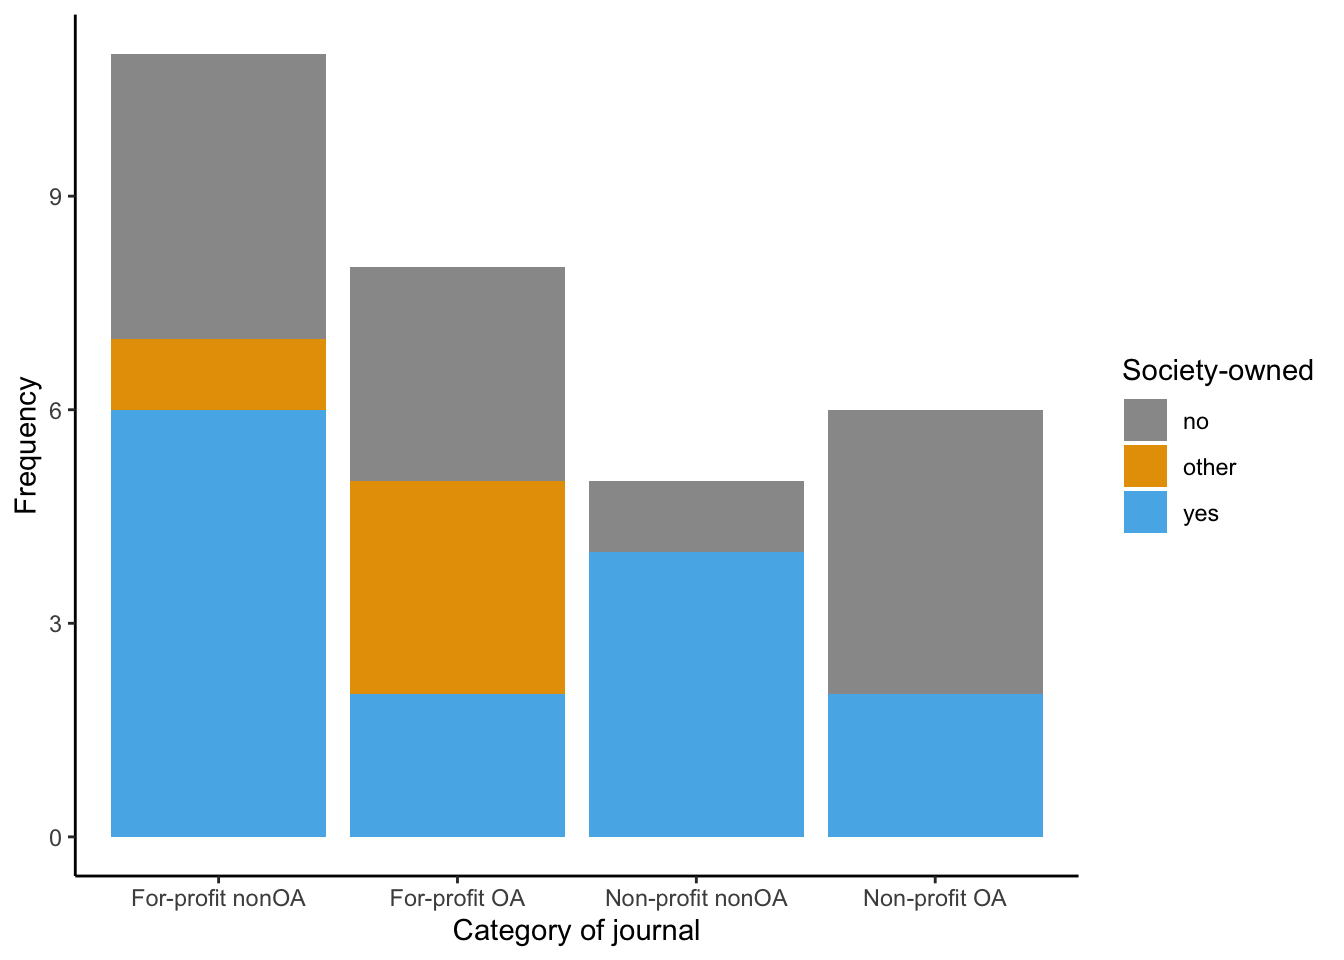
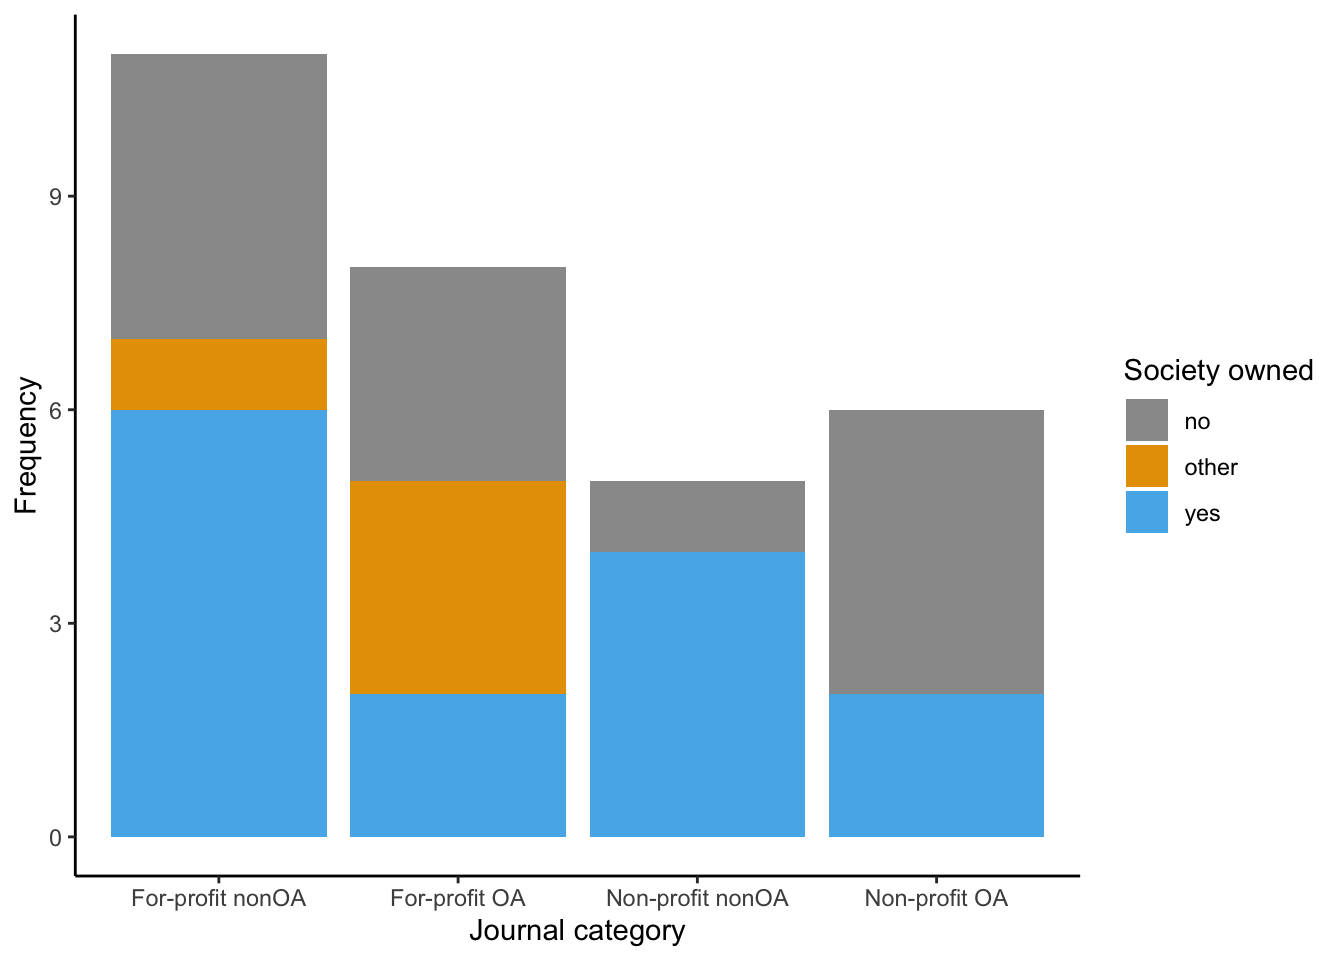
Build site.

diff --git a/docs/9_Journals_additional_info.html b/docs/9_Journals_additional_info.html
@@ -522,15 +522,15 @@ project makes it easier to run your code on other machines.</p>
 <div class="panel panel-default">
 <div class="panel-heading">
 <p class="panel-title">
-<a data-toggle="collapse" data-parent="#workflowr-checks" href="#strongRepositoryversionstrongahrefhttpsgithubcomandbeckworkflowrpolicylandscapetree903da06051d907f0d86e5cb4f73fd7a0cfac6a2etargetblank903da06a">
+<a data-toggle="collapse" data-parent="#workflowr-checks" href="#strongRepositoryversionstrongahrefhttpsgithubcomandbeckworkflowrpolicylandscapetree899cda5c4890d91737cc7c586726b39cfbfe4b0ctargetblank899cda5a">
 <span class="glyphicon glyphicon-ok text-success"
 aria-hidden="true"></span> <strong>Repository version:</strong>
-<a href="https://github.com/andbeck/workflowr-policy-landscape/tree/903da06051d907f0d86e5cb4f73fd7a0cfac6a2e" target="_blank">903da06</a>
+<a href="https://github.com/andbeck/workflowr-policy-landscape/tree/899cda5c4890d91737cc7c586726b39cfbfe4b0c" target="_blank">899cda5</a>
 </a>
 </p>
 </div>
 <div
[2 lines of base64/hex data omitted]
 class="panel-collapse collapse">
 <div class="panel-body">
 <p>
@@ -540,7 +540,7 @@ reproducibility.
 </p>
 <p>
 The results in this page were generated with repository version
-<a href="https://github.com/andbeck/workflowr-policy-landscape/tree/903da06051d907f0d86e5cb4f73fd7a0cfac6a2e" target="_blank">903da06</a>.
+<a href="https://github.com/andbeck/workflowr-policy-landscape/tree/899cda5c4890d91737cc7c586726b39cfbfe4b0c" target="_blank">899cda5</a>.
 See the <em>Past versions</em> tab to see a history of the changes made
 to the R Markdown and HTML files.
 </p>
@@ -570,7 +570,6 @@ Untracked files:
 
 Unstaged changes:
     Modified:   Policy_landscape_workflowr.R
-    Modified:   README.md
     Modified:   data/original_dataset_reproducibility_check/original_cleaned_data.csv
     Modified:   data/original_dataset_reproducibility_check/original_dataset_words_stm_5topics.csv
     Modified:   output/Figure_3A/Figure_3A.png
@@ -626,6 +625,74 @@ Message
 Rmd
 </td>
 <td>
+<a href="https://github.com/andbeck/workflowr-policy-landscape/blob/899cda5c4890d91737cc7c586726b39cfbfe4b0c/analysis/9_Journals_additional_info.Rmd" target="_blank">899cda5</a>
+</td>
+<td>
+zuzannazagrodzka
+</td>
+<td>
+2023-12-05
+</td>
+<td>
+wflow_publish(files = "analysis/9_Journals_additional_info.Rmd")
+</td>
+</tr>
+<tr>
+<td>
+Rmd
+</td>
+<td>
+<a href="https://github.com/andbeck/workflowr-policy-landscape/blob/c118615521c53cbe422c69a1937cec0198dfe565/analysis/9_Journals_additional_info.Rmd" target="_blank">c118615</a>
+</td>
+<td>
+zuzannazagrodzka
+</td>
+<td>
+2023-12-05
+</td>
+<td>
+.
+</td>
+</tr>
+<tr>
+<td>
+Rmd
+</td>
+<td>
+<a href="https://github.com/andbeck/workflowr-policy-landscape/blob/9931d771f515660e7fc90cf352b9bb90283312d7/analysis/9_Journals_additional_info.Rmd" target="_blank">9931d77</a>
+</td>
+<td>
+zuzannazagrodzka
+</td>
+<td>
+2023-12-05
+</td>
+<td>
+Improving the description and cleaning the script
+</td>
+</tr>
+<tr>
+<td>
+html
+</td>
+<td>
+<a href="https://rawcdn.githack.com/andbeck/workflowr-policy-landscape/61f889d254b43dc3ab0796b802daaff2ec509a0d/docs/9_Journals_additional_info.html" target="_blank">61f889d</a>
+</td>
+<td>
+zuzannazagrodzka
+</td>
+<td>
+2023-12-05
+</td>
+<td>
+Build site.
+</td>
+</tr>
+<tr>
+<td>
+Rmd
+</td>
+<td>
 <a href="https://github.com/andbeck/workflowr-policy-landscape/blob/903da06051d907f0d86e5cb4f73fd7a0cfac6a2e/analysis/9_Journals_additional_info.Rmd" target="_blank">903da06</a>
 </td>
 <td>
@@ -645,9 +712,10 @@ Update the file paths for all analysis and figures
 </div>
 </div>
 </div>
-<p>This script creates a figure ilustrating what journals are owned by
-the societies or different institutions (other) and journals owned and
-run only by publishers.</p>
+<p>This script creates a figure showing how many journals per category
+(for-profit OA, for-profit noOA, not-for-profit OA and not-for-profit
+noOA) are owned by the societies, different institutions (other) or
+solely by publishers.</p>
 <pre class="r"><code># Clearing R
 rm(list=ls())
 
@@ -836,8 +904,10 @@ df &lt;- data_journals %&gt;%
  8 no_profit_no_oa  yes                 4 0.8   
  9 no_profit_oa     no                  4 0.667 
 10 no_profit_oa     yes                 2 0.333 </code></pre>
-<p>Creating a figure</p>
-<pre class="r"><code>legend_title &lt;- &quot;Society-owned&quot;
+</div>
+<div id="creating-a-figure" class="section level1">
+<h1>Creating a figure</h1>
+<pre class="r"><code>legend_title &lt;- &quot;Society owned&quot;
 
 ggplot(df, aes(x = profit_access, y = n, fill = society_journal)) +
   geom_bar(stat=&#39;identity&#39;) +
@@ -847,22 +917,45 @@ panel.grid.minor = element_blank(), axis.line = element_line(colour = &quot;blac
   scale_fill_manual(legend_title, values=c(&quot;#999999&quot;, &quot;#E69F00&quot;, &quot;#56B4E9&quot;)) + #no, other, yes
   scale_x_discrete(limit = c(&quot;for_profit_no_oa&quot;, &quot;for_profit_oa&quot;, &quot;no_profit_no_oa&quot;, &quot;no_profit_oa&quot;),
                      labels = c(&quot;For-profit nonOA&quot;,&quot;For-profit OA&quot;,&quot;Non-profit nonOA&quot;, &quot;Non-profit OA&quot;)) +
-  labs(y= &quot;Frequency&quot;, x = &quot;Category of journal&quot;)</code></pre>
+  labs(y= &quot;Frequency&quot;, x = &quot;Journal category&quot;)</code></pre>
 <p><img src="figure/9_Journals_additional_info.Rmd/unnamed-chunk-6-1.png" width="672" style="display: block; margin: auto;" /></p>
-<pre class="r"><code>head(data_journals, 5)</code></pre>
-<pre><code># A tibble: 5 × 5
-  document                           access profit_access profit society_journal
-  &lt;chr&gt;                              &lt;chr&gt;  &lt;chr&gt;         &lt;chr&gt;  &lt;chr&gt;          
-1 American Naturalist                journ… no_profit_no… no_pr… yes            
-2 Annual Review of Ecology Evolutio… journ… no_profit_no… no_pr… no             
-3 Biological Conservation            journ… for_profit_n… profit no             
-4 BioSciences                        journ… for_profit_n… profit yes            
-5 Conservation Biology               journ… for_profit_n… profit yes            </code></pre>
-<pre class="r"><code>df$profit_access</code></pre>
-<pre><code> [1] for_profit_no_oa for_profit_no_oa for_profit_no_oa for_profit_oa   
- [5] for_profit_oa    for_profit_oa    no_profit_no_oa  no_profit_no_oa 
- [9] no_profit_oa     no_profit_oa    
-Levels: for_profit_no_oa for_profit_oa no_profit_no_oa no_profit_oa</code></pre>
+<p>
+<button type="button" class="btn btn-default btn-xs btn-workflowr btn-workflowr-fig" data-toggle="collapse" data-target="#fig-unnamed-chunk-6-1">
+Past versions of unnamed-chunk-6-1.png
+</button>
+</p>
+<div id="fig-unnamed-chunk-6-1" class="collapse">
+<div class="table-responsive">
+<table class="table table-condensed table-hover">
+<thead>
+<tr>
+<th>
+Version
+</th>
+<th>
+Author
+</th>
+<th>
+Date
+</th>
+</tr>
+</thead>
+<tbody>
+<tr>
+<td>
+<a href="https://github.com/andbeck/workflowr-policy-landscape/blob/61f889d254b43dc3ab0796b802daaff2ec509a0d/docs/figure/9_Journals_additional_info.Rmd/unnamed-chunk-6-1.png" target="_blank">61f889d</a>
+</td>
+<td>
+zuzannazagrodzka
+</td>
+<td>
+2023-12-05
+</td>
+</tr>
+</tbody>
+</table>
+</div>
+</div>
 <br>
 <p>
 <button type="button" class="btn btn-default btn-workflowr btn-workflowr-sessioninfo" data-toggle="collapse" data-target="#workflowr-sessioninfo" style="display: block;">
